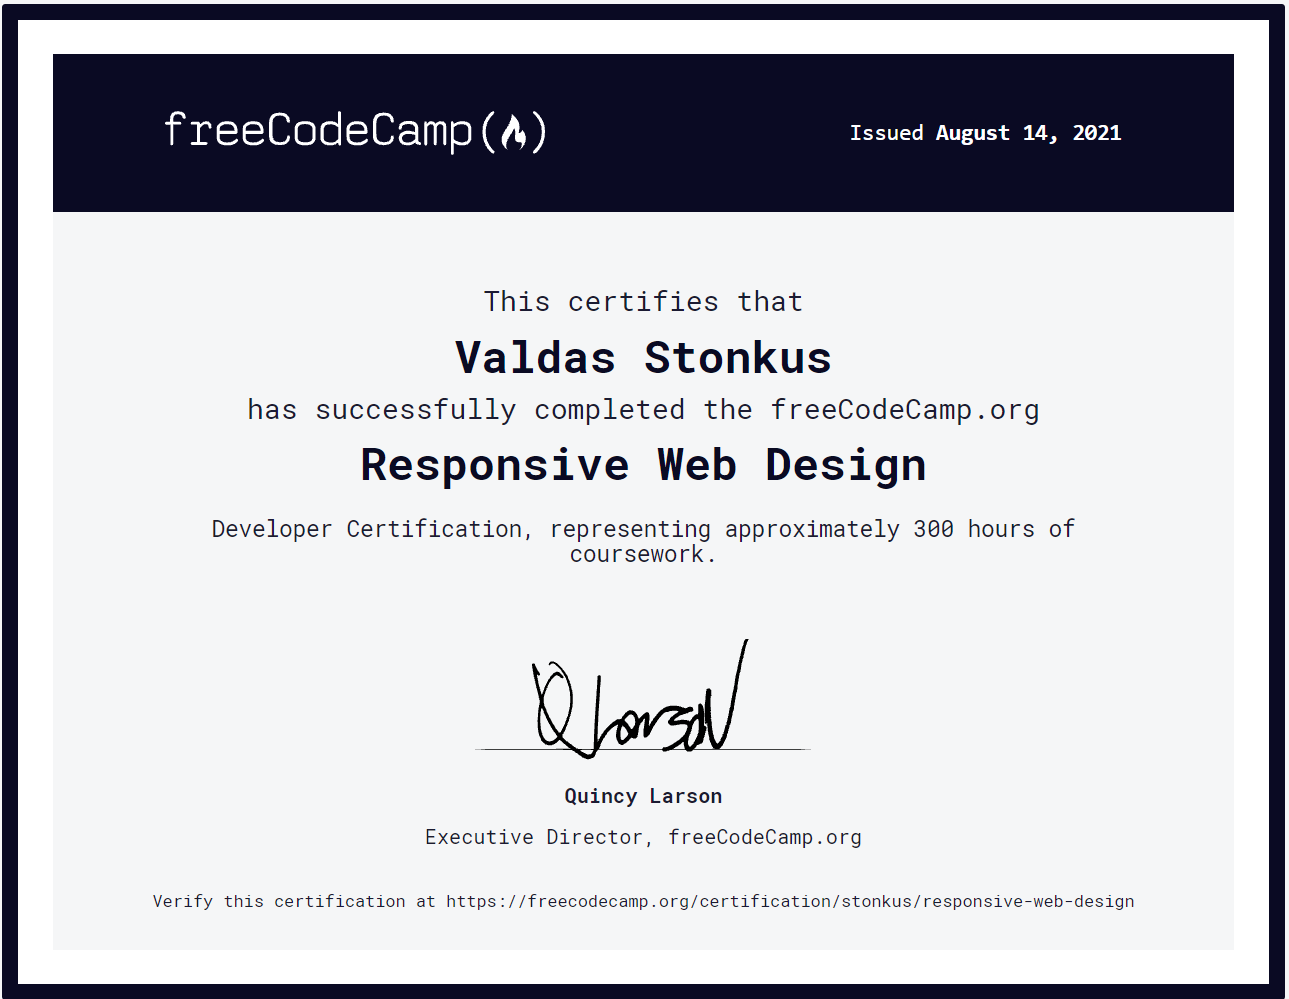
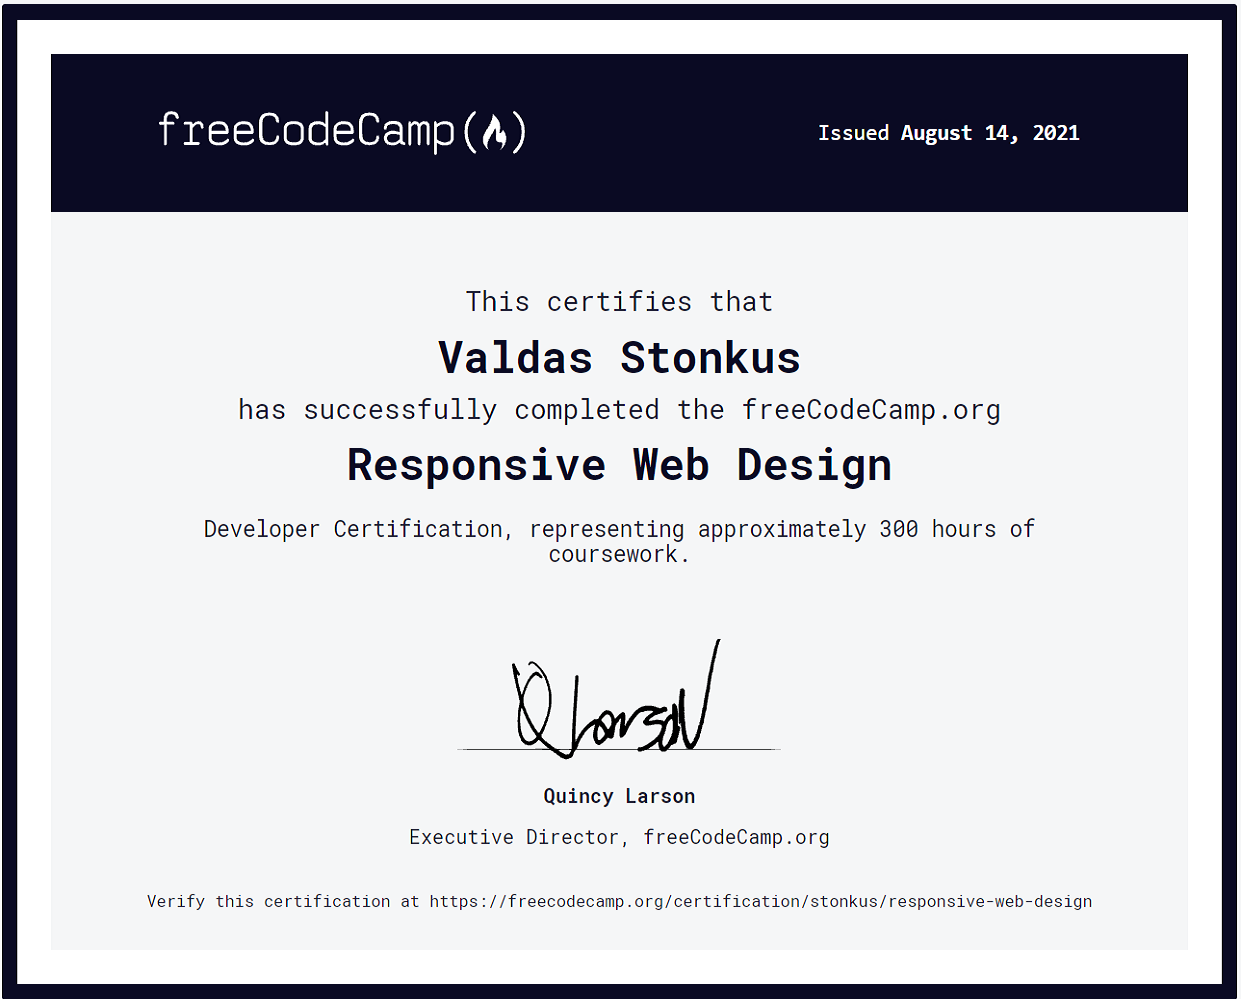
certificates added

diff --git a/index.html b/index.html
@@ -55,14 +55,14 @@
 
     <!-- ---Project sections start---- -->
     <div id="project-section" class="container" style="padding-top: 60px;">
-      <h1 class="text-center mb-4">These are some of my projects</h1>
+      <h1 class="text-center mb-4">These are some of my works</h1>
       <div class="card-columns">
 
         <div class="card">
           <div class="row g-0">
             <div class="col-4 my-auto">
               <img src="src\inr-app.png" class="card-img-left img-fluid rounded"
-                alt="To-Do aplication with 3 open and 1 compleated tasks.">
+                alt="white app window with  cards with different informations for pleoples">
             </div>
             <div class="col-8">
               <div class="card-body">
@@ -97,10 +97,52 @@
           </div>
         </div>
 
+        <!-- ----------------------- certificates ------------- -->
+        <div class="card border-0">
+          <div class="row">
+            <div class="col-6">
+
+              <img src="./src/sert/javascript_and_data.png" class="img-fluid rounded justify-content-center"
+                style="cursor: pointer;" data-toggle="modal" data-target=".bd-modal-javascript"
+                alt="Certificate of compleated JavaScript algoritms and date structures.">
+            </div>
+
+            <div class="col-6">
+              <img src="./src/sert/responsive_web_design.png" class="img-fluid rounded justify-content-center"
+                style="cursor: pointer;" data-toggle="modal" data-target=".bd-modal-responsive"
+                alt="Certificate of compleated Responsive web desingn.">
+            </div>
+          </div>
+        </div>
+
+
+        <!-- modals for certificates -->
+        <div class="modal fade bd-modal-javascript" tabindex="-1" role="dialog" aria-labelledby="myExtraLargeModalLabel"
+          aria-hidden="true">
+          <div class="modal-dialog modal-xl">
+            <div class="modal-content">
+              <img class="img-fluid" src="./src/sert/javascript_and_data.png" alt="">
+            </div>
+          </div>
+        </div>
+
+        <div class="modal fade bd-modal-responsive" tabindex="-1" role="dialog" aria-labelledby="myExtraLargeModalLabel"
+          aria-hidden="true">
+          <div class="modal-dialog modal-xl">
+            <div class="modal-content">
+              <img class="img-fluid" src="./src/sert/responsive_web_design.png" alt="">
+            </div>
+          </div>
+        </div>
+
+        <!-- ------------------ end certificates ----------------------- -->
+
+
         <div class="card">
           <div class="row g-0">
             <div class="col-4 my-auto">
-              <img src="./src/to-do.png" class="img-fluid rounded justify-content-center" alt="...">
+              <img src="./src/to-do.png" class="img-fluid rounded justify-content-center"
+                alt="To-Do aplication with 3 open and 1 compleated tasks.">
             </div>
             <div class="col-8">
               <div class="card-body">
@@ -119,7 +161,8 @@
         <div class="card">
           <div class="row g-0">
             <div class="col-4 my-auto">
-              <img src="./src/cash-register.png" class="img-fluid rounded justify-content-center" alt="...">
+              <img src="./src/cash-register.png" class="img-fluid rounded justify-content-center"
+                alt="Black console with program code">
             </div>
             <div class="col-8">
               <div class="card-body">
@@ -139,13 +182,16 @@
           </div>
         </div>
 
+
+
       </div>
     </div>
+  </div>
 
 
 
 
-    <!-- ---Project sections end---- -->
+  <!-- ---Project sections end---- -->
   </div>
 
   <div id="contact-section" class="container">
